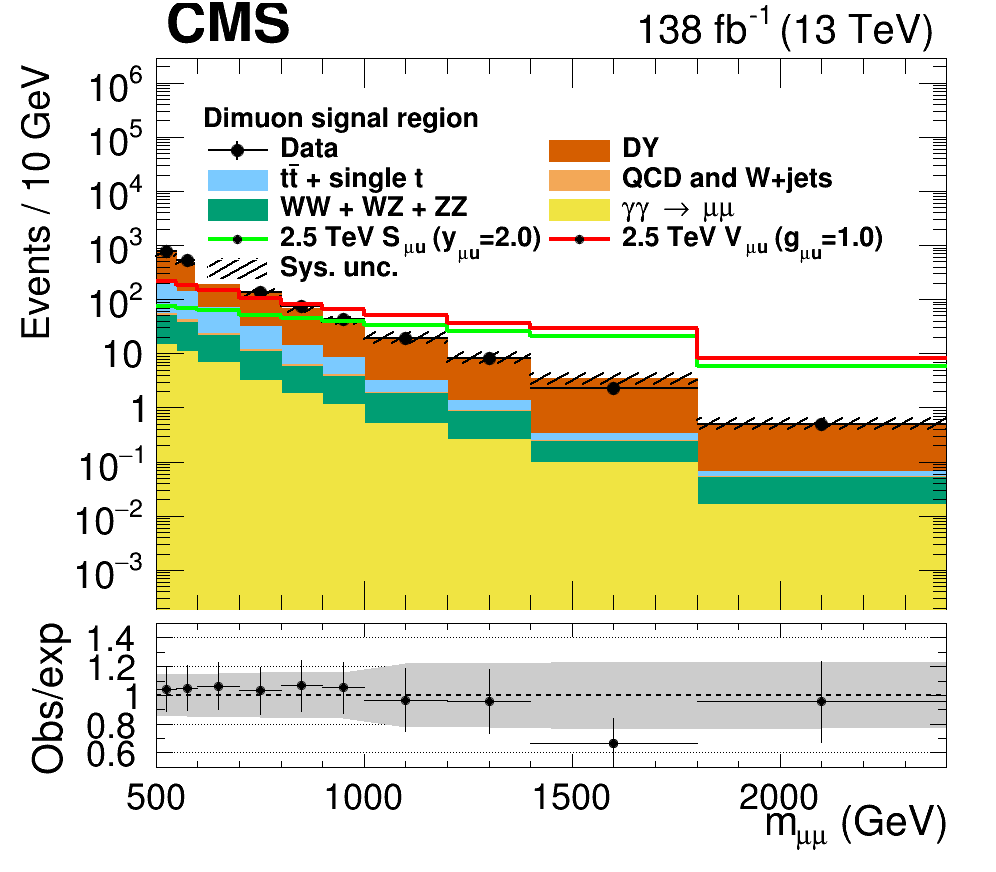
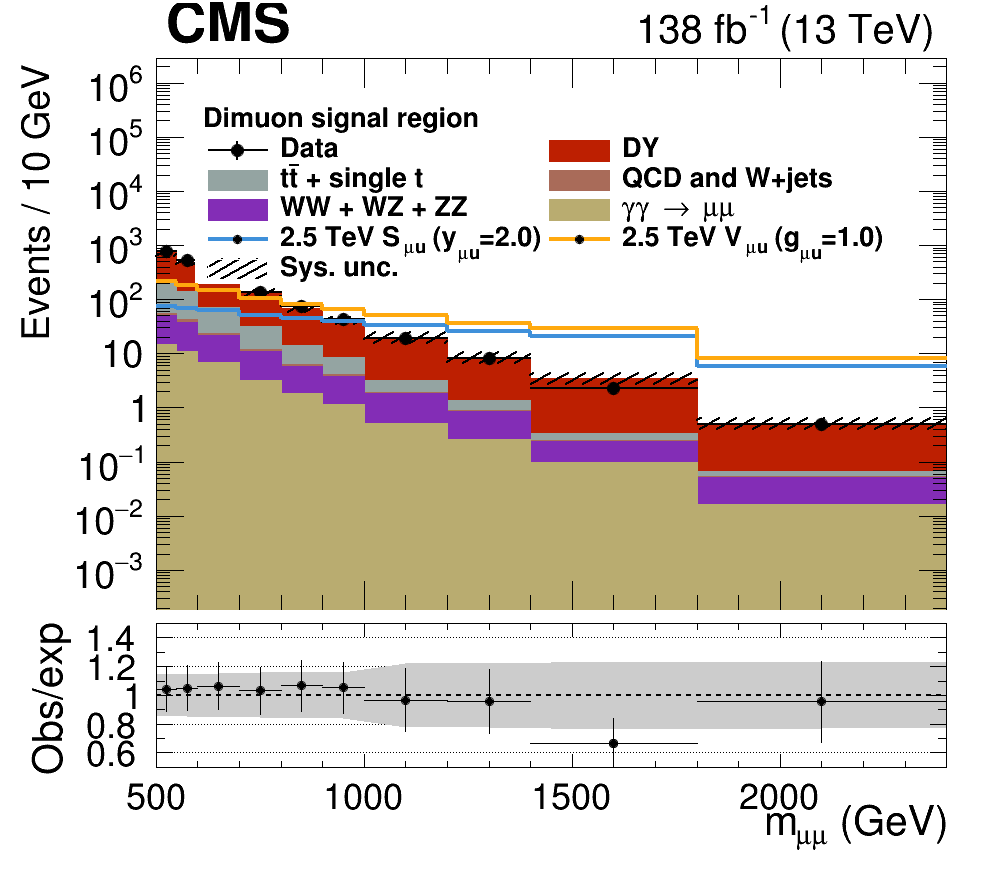
modifying colors

Changed region(s): [[0.1556, 0.2787, 0.9649, 0.7122], [0.5291, 0.1548, 0.6225, 0.2787], [0.1867, 0.1858, 0.2801, 0.2787]]

diff --git a/plots/MuMu/draw_cmp_from_saved.C b/plots/MuMu/draw_cmp_from_saved.C
@@ -198,67 +198,67 @@ void draw_cmp_from_saved(){
 
 
 
-    dy_cost->SetFillColor(DY_c);
-    dy_m->SetFillColor(DY_c);
-    dy_rap->SetFillColor(DY_c);
+    dy_cost->SetFillColor(DY_color);
+    dy_m->SetFillColor(DY_color);
+    dy_rap->SetFillColor(DY_color);
 
-    top_cost->SetFillColor(ttbar_c);
-    top_m->SetFillColor(ttbar_c);
-    top_rap->SetFillColor(ttbar_c);
+    top_cost->SetFillColor(ttbar_color);
+    top_m->SetFillColor(ttbar_color);
+    top_rap->SetFillColor(ttbar_color);
 
 
     wt_cost->SetFillColor(wt_c);
     wt_m->SetFillColor(wt_c);
     wt_rap->SetFillColor(wt_c);
 
-    diboson_cost->SetFillColor(diboson_c);
-    diboson_m->SetFillColor(diboson_c);
-    diboson_rap->SetFillColor(diboson_c);
+    diboson_cost->SetFillColor(diboson_color);
+    diboson_m->SetFillColor(diboson_color);
+    diboson_rap->SetFillColor(diboson_color);
 
-    QCD_cost->SetFillColor(qcd_c);
-    QCD_m->SetFillColor(qcd_c);
-    QCD_rap->SetFillColor(qcd_c);
+    QCD_cost->SetFillColor(qcd_color);
+    QCD_m->SetFillColor(qcd_color);
+    QCD_rap->SetFillColor(qcd_color);
 
-    gg_cost->SetFillColor(gamgam_c);
-    gg_m->SetFillColor(gamgam_c);
-    gg_rap->SetFillColor(gamgam_c);
-
-
+    gg_cost->SetFillColor(gamgam_color);
+    gg_m->SetFillColor(gamgam_color);
+    gg_rap->SetFillColor(gamgam_color);
 
 
-    dy_cost->SetLineColor(DY_c);
-    dy_m->SetLineColor(DY_c);
-    dy_rap->SetLineColor(DY_c);
 
-    top_cost->SetLineColor(ttbar_c);
-    top_m->SetLineColor(ttbar_c);
-    top_rap->SetLineColor(ttbar_c);
+
+dy_cost->SetLineColor(DY_color);
+    dy_m->SetLineColor(DY_color);
+    dy_rap->SetLineColor(DY_color);
+
+    top_cost->SetLineColor(ttbar_color);
+    top_m->SetLineColor(ttbar_color);
+    top_rap->SetLineColor(ttbar_color);
 
 
     wt_cost->SetLineColor(wt_c);
     wt_m->SetLineColor(wt_c);
     wt_rap->SetLineColor(wt_c);
 
-    diboson_cost->SetLineColor(diboson_c);
-    diboson_m->SetLineColor(diboson_c);
-    diboson_rap->SetLineColor(diboson_c);
+    diboson_cost->SetLineColor(diboson_color);
+    diboson_m->SetLineColor(diboson_color);
+    diboson_rap->SetLineColor(diboson_color);
 
-    QCD_cost->SetLineColor(qcd_c);
-    QCD_m->SetLineColor(qcd_c);
-    QCD_rap->SetLineColor(qcd_c);
+    QCD_cost->SetLineColor(qcd_color);
+    QCD_m->SetLineColor(qcd_color);
+    QCD_rap->SetLineColor(qcd_color);
 
-    gg_cost->SetLineColor(gamgam_c);
-    gg_m->SetLineColor(gamgam_c);
-    gg_rap->SetLineColor(gamgam_c);
+    gg_cost->SetLineColor(gamgam_color);
+    gg_m->SetLineColor(gamgam_color);
+    gg_rap->SetLineColor(gamgam_color);
 
-    LQu_m->SetLineColor(kGreen);
-    LQu_cost->SetLineColor(kGreen);
-    LQu_rap->SetLineColor(kGreen);
 
-    LQu_vec_m->SetLineColor(kRed);
-    LQu_vec_cost->SetLineColor(kRed);
-    LQu_vec_rap->SetLineColor(kRed);
+    LQu_m->SetLineColor(LQ_color);
+    LQu_cost->SetLineColor(LQ_color);
+    LQu_rap->SetLineColor(LQ_color);
 
+    LQu_vec_m->SetLineColor(LQvec_color);
+    LQu_vec_cost->SetLineColor(LQvec_color);
+    LQu_vec_rap->SetLineColor(LQvec_color);
     LQu_m->SetLineWidth(4);
     LQu_cost->SetLineWidth(4);
     LQu_rap->SetLineWidth(4);
